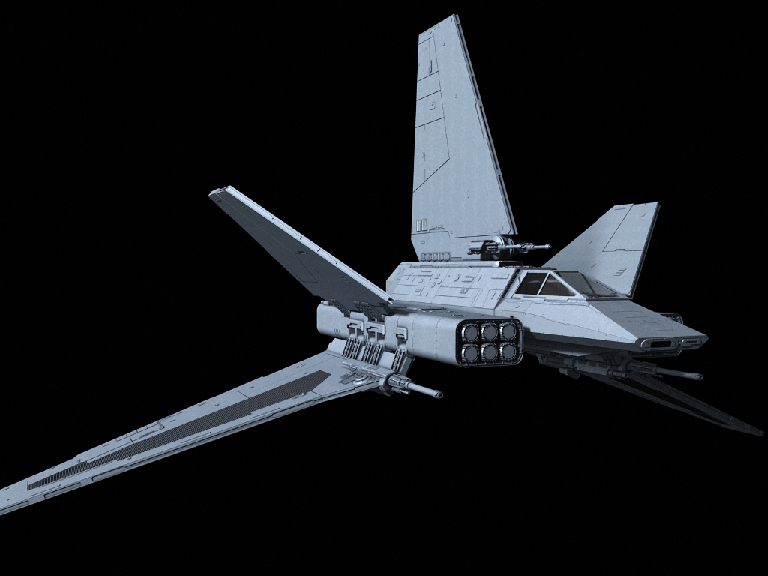
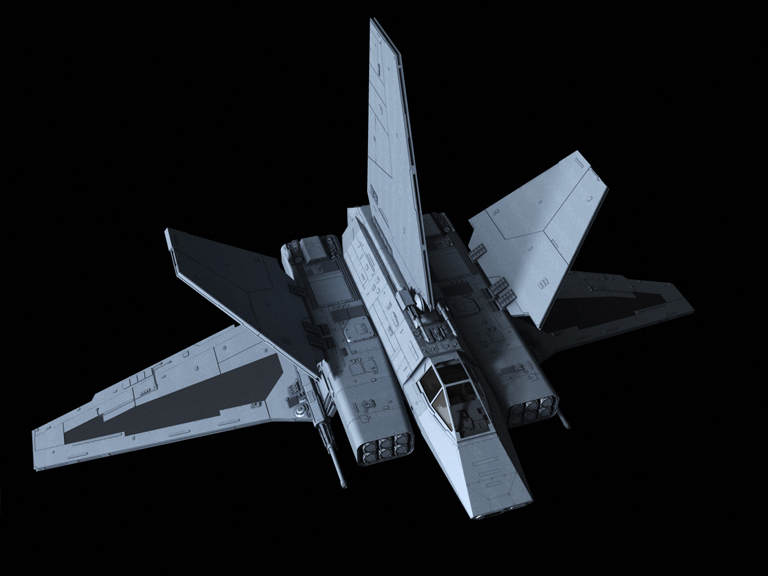
get better star wing image, fadeIn ship previews, min-height for content

Changed region(s): [[0.0, 0.0312, 1.0, 0.9062]]

diff --git a/app/Components/Views/ShipListingPage.jsx b/app/Components/Views/ShipListingPage.jsx
@@ -4,7 +4,24 @@ import { Link } from 'react-router-dom';
 //Service
 import ShipService from '../../Service/ships.js';
 
-// @todo need to copy assets over to dist
+// @todo need to copy assets over to dist?
+// @todo break the preview into it's own component
+
+function Price(props) {
+	return <p className="ship-preview--price">{props.price}</p>
+}
+
+function NoPrice() {
+	return <p className="ship-preview--no-price">Call for price</p>
+}
+
+function PriceCallout (props) {
+	if (props.price) {
+		return <Price price={props.price} />
+	} else {
+		return <NoPrice />
+	}
+}
 
 class ShipListingPage extends React.Component {
 	constructor(props) {
@@ -37,14 +54,15 @@ class ShipListingPage extends React.Component {
 					{
 						this.state.ships.map((ship) => {
 						let shipUrl = "/ship/" + ship.slug;
-						return <div className="col-xs-12 col-sm-6 col-md-4" key={ship.slug}>
+						return <div className="col-xs-12 col-sm-6 col-md-4 ship-preview animated fadeIn" key={ship.slug}>
 							<Link to={shipUrl}>
-								<img className="ship-preview" src={"../../app/assets/images/" + ship.slug + "_thumb.jpg"} alt={ship.slug} />
+								<img className="ship-preview--img" src={"../../app/assets/images/" + ship.slug + "_thumb.jpg"} alt={ship.slug} />
 							</Link>
-							<Link to={shipUrl}>
+							<Link className="ship-preview--name" to={shipUrl}>
 								{ship.name}
 							</Link>
-							<p>{ship.manufacturer}</p>
+							<p className="ship-preview--manufacturer">{ship.manufacturer}</p>
+							<PriceCallout price={ship.price}/>
 						</div>
 					})}
 				</div>

diff --git a/app/Sass/main.scss b/app/Sass/main.scss
@@ -13,9 +13,12 @@
 
 $yellow: #ccb361;
 $blue: #50b5ed;
+$dark-blue: #2a5871;
+$light-blue: #87c4e5;
 
 html {
 	font-size: 16px;
+	height: 100%;
 }
 
 body {
@@ -23,15 +26,19 @@ body {
 	color: #fff;
 }
 
-a,
-a:link,
-a:visited {
+a {
 	color: $yellow;
 	text-decoration: none;
+    outline: none;
+
+    &:hover {
+		text-decoration: underline;
+	}
 }
 
-a:hover {
-	text-decoration: underline;
+.content {
+	margin-bottom: 2em;
+	min-height: 100vh;
 }
 
 /**
@@ -39,7 +46,7 @@ a:hover {
 */
 .site-header {
 	background: rgba($yellow, .5);
-    border-bottom: 1px solid $yellow;
+    border-bottom: 2px solid $yellow;
 
     &--title {
     	text-indent: -9999px;
@@ -49,10 +56,60 @@ a:hover {
     }
 }
 
+/**
+* FOOTER
+*/
+.site-footer {
+	background: rgba($yellow, .5);
+    border-top: 2px solid $yellow;
+    padding: 1em 0 .5em;
+
+    .copyright {
+    	text-align: center;
+    	font-size: .8em;
+    }
+}
+
 
 /**
 * SHIP PREVIEW
 */
 .ship-preview {
-	max-width: 100%;
+	&>* {
+		display: inline-block;
+		margin: 0;
+	}
+
+	&--img {
+		max-width: 100%;
+		opacity: .8;
+		transition: opacity .2s;
+
+		&:hover {
+			opacity: 1;
+		}
+	}
+
+	&--name {
+		font-size: 1.1em;
+		margin-bottom: .25em;
+	}
+
+	&--manufacturer {
+		display: block;
+		font-size: .8em;
+		margin-bottom: .5em;
+	}
+
+	&--price {
+		color: $blue;
+		margin-bottom: .25em;
+	}
+
+	&--no-price {
+		color: $light-blue;
+	    background: $dark-blue;
+	    padding: .25em;
+	    margin-bottom: .25em;
+	}
 }

diff --git a/app/Components/Layout.jsx b/app/Components/Layout.jsx
@@ -4,17 +4,26 @@ class Layout extends React.Component {
 	render(){
 		return(
 			<div>
-				<div className="site-header container-fluid animated slideInDown">
+				<header className="site-header container-fluid animated slideInDown">
 					<div className="row center-xs">
 						<div className="col-xs">
 							<h1 className="site-header--title">Watto’s Space Emporium</h1>
 							<p className="site-header--subtitle">These <em>are</em> the ships you’re looking for</p>
 						</div>
 					</div>
-				</div>
+				</header>
 				<section className="content container-fluid">
 					{this.props.children}
 				</section>
+				<footer className="site-footer">
+					<div className="message-from-watto">
+						{
+							//image of watto
+						}
+						<p>"You not find a better deal, I think. Eh?"</p>
+					</div>
+					<p className="copyright">© Watto’s Emporium</p>
+				</footer>
 			</div>
 		)
 	}

diff --git a/app/index.js b/app/index.js
@@ -10,6 +10,8 @@ import ShipViewPage from './Components/Views/ShipViewPage.jsx';
 //Styles
 import './Sass/main.scss';
 
+// @todo include font-awesome icons
+
 class App extends React.Component {
 	render() {
 		return (
